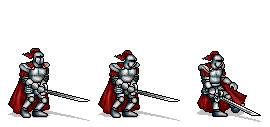
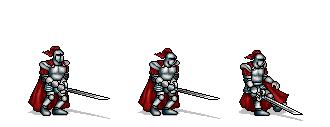
Better systems scheduling, better player wound animation

Changed region(s): [[0.0296, 0.3543, 0.6815, 0.9685], [0.7111, 0.378, 0.9778, 0.9685]]

diff --git a/src/spawner.rs b/src/spawner.rs
@@ -39,13 +39,13 @@ pub fn spawn_player(
     let attack_image = asset_server.load("Paladin__ATTACK_1.png");
     let attack_atlas = TextureAtlas::from_grid(attack_image, Vec2::new(105.0, 107.0), 5, 1);
     let attack_h = texture_atlases.add(attack_atlas);
-    let attack_timer = Timer::from_seconds(0.1, true);
+    let attack_timer = Timer::from_seconds(0.11, true);
     let attack_count = 5;
 
     let wound_image = asset_server.load("Paladin__WOUND.png");
-    let wound_atlas = TextureAtlas::from_grid(wound_image, Vec2::new(90.0, 127.0), 3, 1);
+    let wound_atlas = TextureAtlas::from_grid(wound_image, Vec2::new(110.0, 127.0), 3, 1);
     let wound_h = texture_atlases.add(wound_atlas);
-    let wound_timer = Timer::from_seconds(0.1, true);
+    let wound_timer = Timer::from_seconds(0.13, true);
     let wound_count = 3;
 
     let unit_anims = UnitAnimations {

diff --git a/src/main.rs b/src/main.rs
@@ -32,10 +32,15 @@ fn main() {
         .add_system(gamepad_connection_events.before("input"))
         .add_system(gamepad_input.label("input"))
         .add_system(keyboard_input.label("input"))
-        .add_system(move_unit.label("movements").after("input"))
-        .add_system(update_unit_states.label("unit_states").after("input"))
-        .add_system(animate_unit_sprites.after("movements").after("unit_states"))
+        .add_system(move_unit)
+        .add_system(animate_unit_sprites)
         .add_system(switch_ape_attack)
+        .add_stage_before(
+            CoreStage::PostUpdate,
+            "update_unit_states",
+            SystemStage::parallel(),
+        )
+        .add_system_to_stage("update_unit_states", update_unit_states)
         .init_resource::<Events<UnitStateChanged>>()
         .init_resource::<InputKind>()
         .run();

diff --git a/src/inputs.rs b/src/inputs.rs
@@ -70,7 +70,12 @@ pub fn keyboard_input(
             }
         }
     } else if keyboard_direction_just_released(&keys) {
-        let (player, _, unit_anims, sprite, &orientation) = player_q.single();
+        let (player, unit_state, unit_anims, sprite, &orientation) = player_q.single();
+
+        match *unit_state {
+            UnitState::Move => (),
+            _ => return,
+        }
 
         commands.entity(player).remove::<Movements>();
         ev_unit_states.send(UnitStateChanged {
